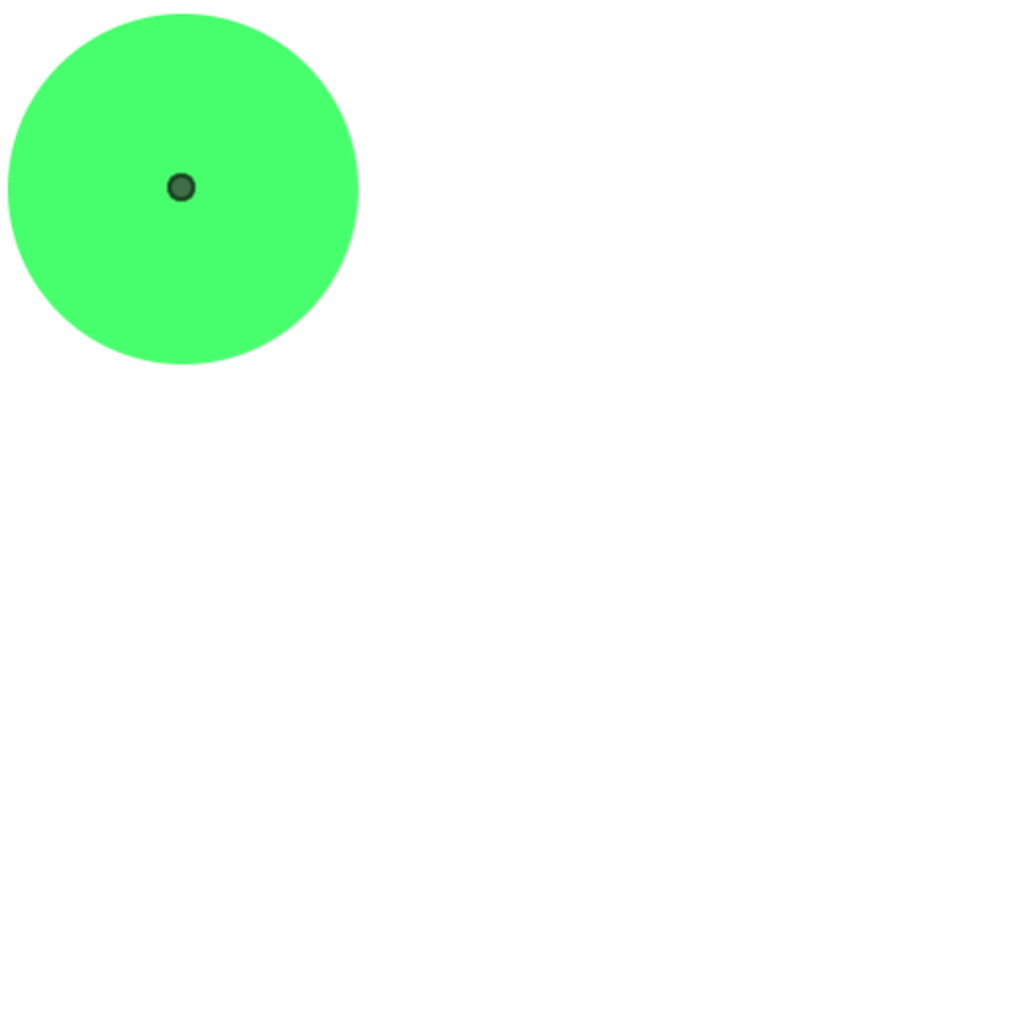
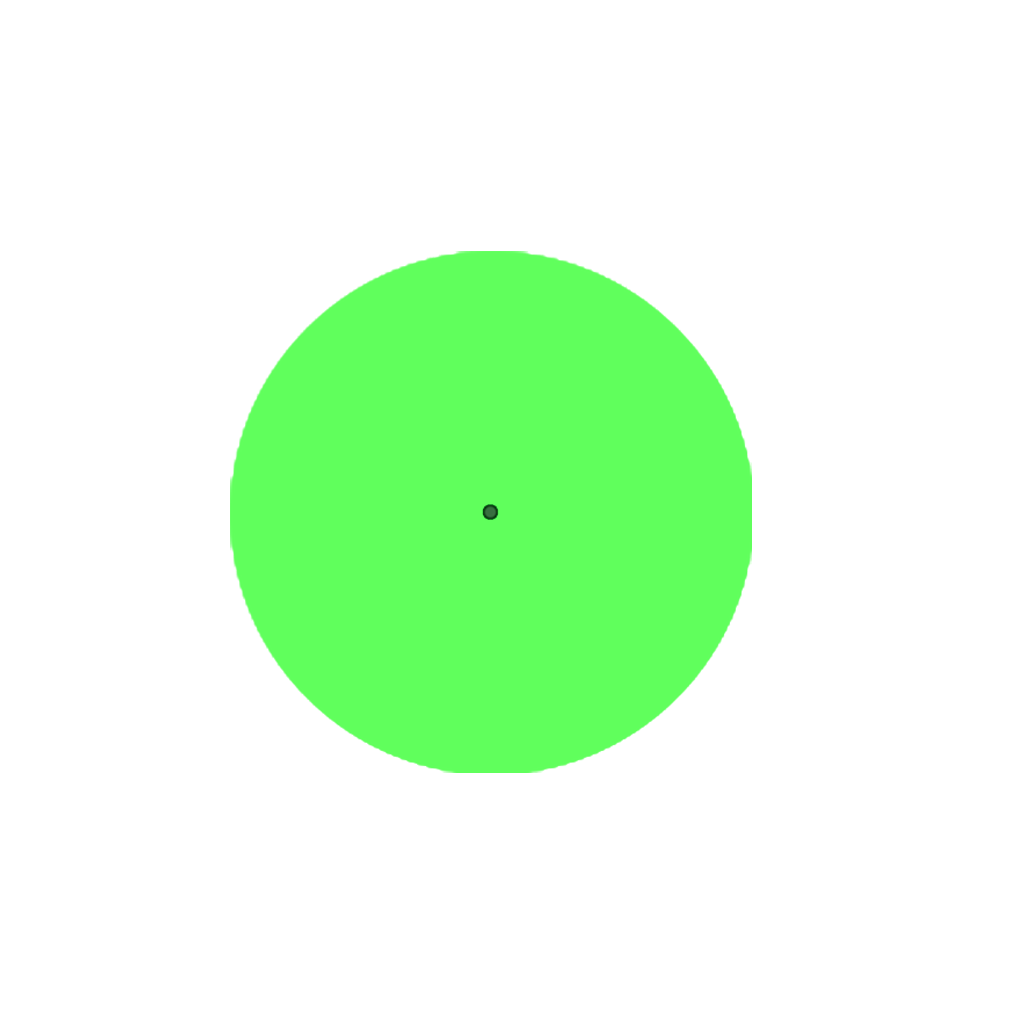
mathematically correct cursor added

Changed region(s): [[0.0, 0.0, 0.75, 0.7812]]

diff --git a/style.css b/style.css
@@ -63,15 +63,28 @@ a.reference h3:hover {opacity:0.5;}
 #bck{
 	position:absolute;
 	z-index:900;
-	max-width: 80%;
+	width: 80%;
 	height: auto;
 }
 
 #map{
 	position:absolute;
 	z-index:1000;
-	max-width: 80%;
+	width: 80%;
 	height: auto;
+}
+
+#draggable {
+	width:80%;
+}
+.cursorContainer{
+	max-width:1024px;
+	max-height:1024px;
+}
+
+.mapContainer{
+	max-width:1024px;
+	max-height:1024px;
 }
 
 .dragme{

diff --git a/TODO.md b/TODO.md
@@ -1,4 +1,4 @@
 #TODO
-- test for mathematic correctness
+- test for mathematic correctness on all maps
 - mobile responsive changes?
 - aesthetic tweaks for map pages
